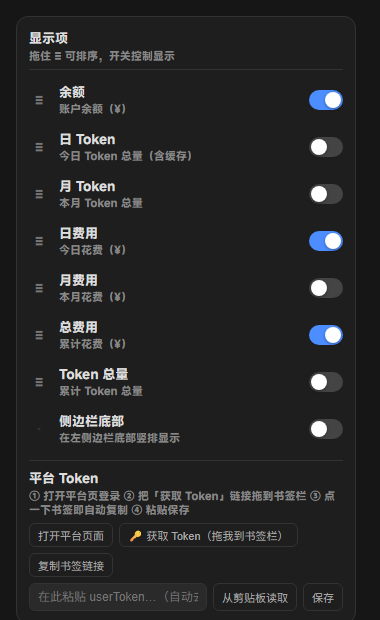
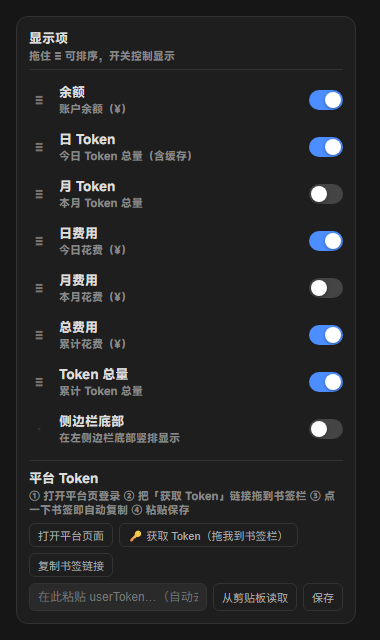
feat: default dayTokens & totalTokens ON; refresh preview screenshots

diff --git a/plugin/client/lib/client.js b/plugin/client/lib/client.js
@@ -186,17 +186,17 @@ window.__ModuleLoader__.load({
 			return `${p(d.getHours())}:${p(d.getMinutes())}:${p(d.getSeconds())}`;
 		}
 		const CFG_KEY = "dsh.dsm-usage.config";
-		// 默认顺序与开关（用户指定）：余额开、日Token关、月Token关、日费用开、月费用关、总费用开；
-		// 总Token默认关放最后；侧边栏底部默认关。
+		// 默认顺序与开关：余额开、日Token开、月Token关、日费用开、月费用关、总费用开、Token总量开；
+		// 侧边栏底部默认关。
 		const ITEM_KEYS = ["balance", "dayTokens", "monthTokens", "dayCost", "monthCost", "totalCost", "totalTokens"];
 		const CFG_DEFAULTS = {
 			balance: true,
-			dayTokens: false,
+			dayTokens: true,
 			monthTokens: false,
 			dayCost: true,
 			monthCost: false,
 			totalCost: true,
-			totalTokens: false,
+			totalTokens: true,
 			sidebar: false,
 			order: [...ITEM_KEYS],
 		};
